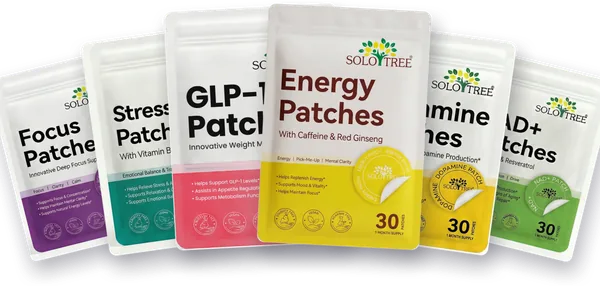
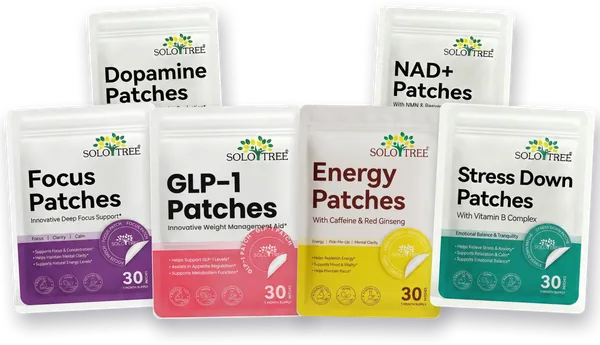
Hero: two-row pack composition so every product name is fully visible; bigger on desktop

diff --git a/src/styles/site.css b/src/styles/site.css
@@ -185,9 +185,9 @@ ul, ol { margin: 0; padding: 0; list-style: none; }
 @keyframes float { 50% { transform: translateY(-10px); } }
 .float-chip { position: absolute; z-index: 2; padding: 8px 14px; border-radius: 999px; background: rgba(255,255,255,.95); color: var(--dark); font-size: 13px; font-weight: 600; box-shadow: 0 10px 30px rgba(0,0,0,.25); white-space: nowrap; animation: float 6s ease-in-out infinite; }
 .float-chip b { font-weight: 800; }
-.float-chip.c1 { left: 2%; top: 0; }
-.float-chip.c2 { right: 3%; top: 8%; animation-delay: -2s; background: var(--cta); color: #fff; }
-.float-chip.c3 { left: 32%; bottom: -10px; animation-delay: -4s; }
+.float-chip.c1 { left: 0; top: 2%; }
+.float-chip.c2 { right: 4%; bottom: -3%; animation-delay: -2s; background: var(--cta); color: #fff; }
+.float-chip.c3 { left: 50%; top: 4%; transform: translateX(-50%); animation: none; }
 @media (max-width: 899px) { .float-chip { font-size: 12px; padding: 6px 12px; animation: none; } .float-chip.c3 { display: none; } .hero-visual { padding-top: 34px; } .hero-packs { animation: none; filter: none; } }
 .hero-copy { display: grid; gap: 18px; }
 .hero-badge { display: inline-block; justify-self: start; padding: 7px 16px; border-radius: var(--radius-full); border: 1px solid rgba(255,255,255,.22); background: rgba(255,255,255,.08); font-size: 13px; font-weight: 600; color: rgba(255,255,255,.92); }
@@ -205,7 +205,8 @@ ul, ol { margin: 0; padding: 0; list-style: none; }
   .hero { padding-block: 64px 80px; }
   .hero-inner { grid-template-columns: 1.12fr 1fr; gap: 48px; }
   .float-chip { font-size: 14px; padding: 10px 16px; }
-  .hero-packs { width: 116%; max-width: none; margin-left: -10%; }
+  .hero-packs { width: 122%; max-width: none; margin-left: -18%; }
+  .hero-inner { grid-template-columns: 1.2fr 1fr; }
 }
 
 /* ---------- trust strip ---------- */

diff --git a/src/templates/pages/home.js b/src/templates/pages/home.js
@@ -13,7 +13,7 @@ export function homePage(cat) {
   <div class="container hero-inner">
     <div class="hero-visual">
       <div class="hero-ring" aria-hidden="true"></div>
-      <img class="hero-packs" src="/images/hero-packs-900.webp" srcset="/images/hero-packs-600.webp 600w, /images/hero-packs-900.webp 900w, /images/hero-packs.webp 1500w" sizes="(min-width: 900px) 640px, 100vw" alt="Los seis parches PatchHouse: Focus, Stress Relief, GLP-1, Energy, Dopamine y NAD+" width="1500" height="716" fetchpriority="high">
+      <img class="hero-packs" src="/images/hero-packs-900.webp" srcset="/images/hero-packs-600.webp 600w, /images/hero-packs-900.webp 900w, /images/hero-packs.webp 1500w" sizes="(min-width: 900px) 760px, 100vw" alt="Los seis parches PatchHouse: Focus, GLP-1, Energy, Stress Relief, Dopamine y NAD+" width="1580" height="909" fetchpriority="high">
       <span class="float-chip c1"><b>30</b> parches · 1 mes</span>
       <span class="float-chip c2">Desde <b>${formatCRC(lowest)}</b></span>
       <span class="float-chip c3">Pagá con <b>SINPE Móvil</b></span>
@@ -139,6 +139,6 @@ ${trustStrip()}
     main,
     page: 'home',
     jsonld,
-    head: '<link rel="preload" as="image" type="image/webp" href="/images/hero-packs-900.webp" imagesrcset="/images/hero-packs-600.webp 600w, /images/hero-packs-900.webp 900w, /images/hero-packs.webp 1500w" imagesizes="(min-width: 900px) 640px, 100vw" fetchpriority="high">'
+    head: '<link rel="preload" as="image" type="image/webp" href="/images/hero-packs-900.webp" imagesrcset="/images/hero-packs-600.webp 600w, /images/hero-packs-900.webp 900w, /images/hero-packs.webp 1500w" imagesizes="(min-width: 900px) 760px, 100vw" fetchpriority="high">'
   });
 }

diff --git a/scripts/build-visuals.js b/scripts/build-visuals.js
@@ -285,11 +285,14 @@ for (const c of cat.combos()) if (c.key !== 'combo-full') await saveSquare(c.key
 for (const set of fullHouseVariants()) await saveSquare(`combo-full-${set.join('-')}`, await composition(set));
 
 console.log('Hero...');
-// Wide arc, back to front: outer pair, middle pair, inner pair.
-const HERO = [['focus', 190, 520, 470, -14], ['nad', 1310, 520, 470, 14], ['stress', 440, 480, 540, -8], ['dopamine', 1060, 480, 540, 8], ['glp1', 640, 450, 600, -3], ['energy', 860, 450, 600, 3]];
+// Two rows so every pack name stays readable: two raised packs in the back, four in front with minimal overlap.
+const HERO = [
+  ['dopamine', 412, 400, 470, -3], ['nad', 1162, 400, 470, 3],
+  ['focus', 225, 690, 540, -3], ['glp1', 600, 700, 560, -1], ['energy', 975, 700, 560, 1], ['stress', 1350, 690, 540, 3]
+];
 const heroLayers = [];
 for (const [k, x, y, h, deg] of HERO) heroLayers.push(...await layer(k, h, deg, x, y));
-const hero = await sharp({ create: { width: 1500, height: 900, channels: 4, background: { r: 0, g: 0, b: 0, alpha: 0 } } }).composite(heroLayers).png().toBuffer();
+const hero = await sharp({ create: { width: 1580, height: 1080, channels: 4, background: { r: 0, g: 0, b: 0, alpha: 0 } } }).composite(heroLayers).png().toBuffer();
 const heroTrim = await sharp(hero).trim({ threshold: 1 }).png().toBuffer();
 await sharp(heroTrim).webp({ quality: 86, alphaQuality: 90, effort: 5 }).toFile(path.join(OUT, 'hero-packs.webp'));
 for (const w of [600, 900]) await sharp(heroTrim).resize({ width: w }).webp({ quality: 82, alphaQuality: 85, effort: 6 }).toFile(path.join(OUT, `hero-packs-${w}.webp`));
